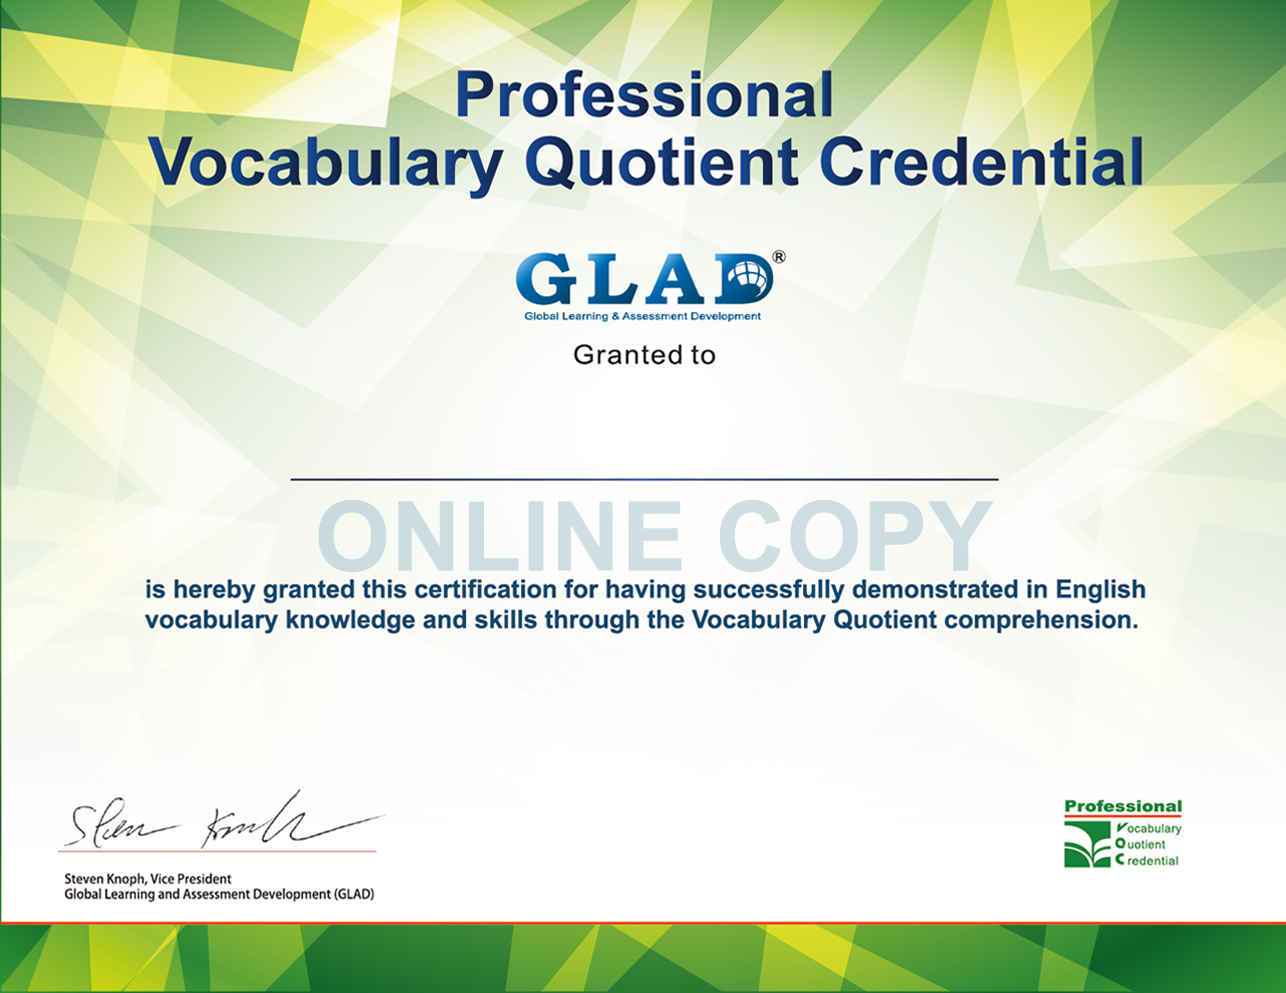
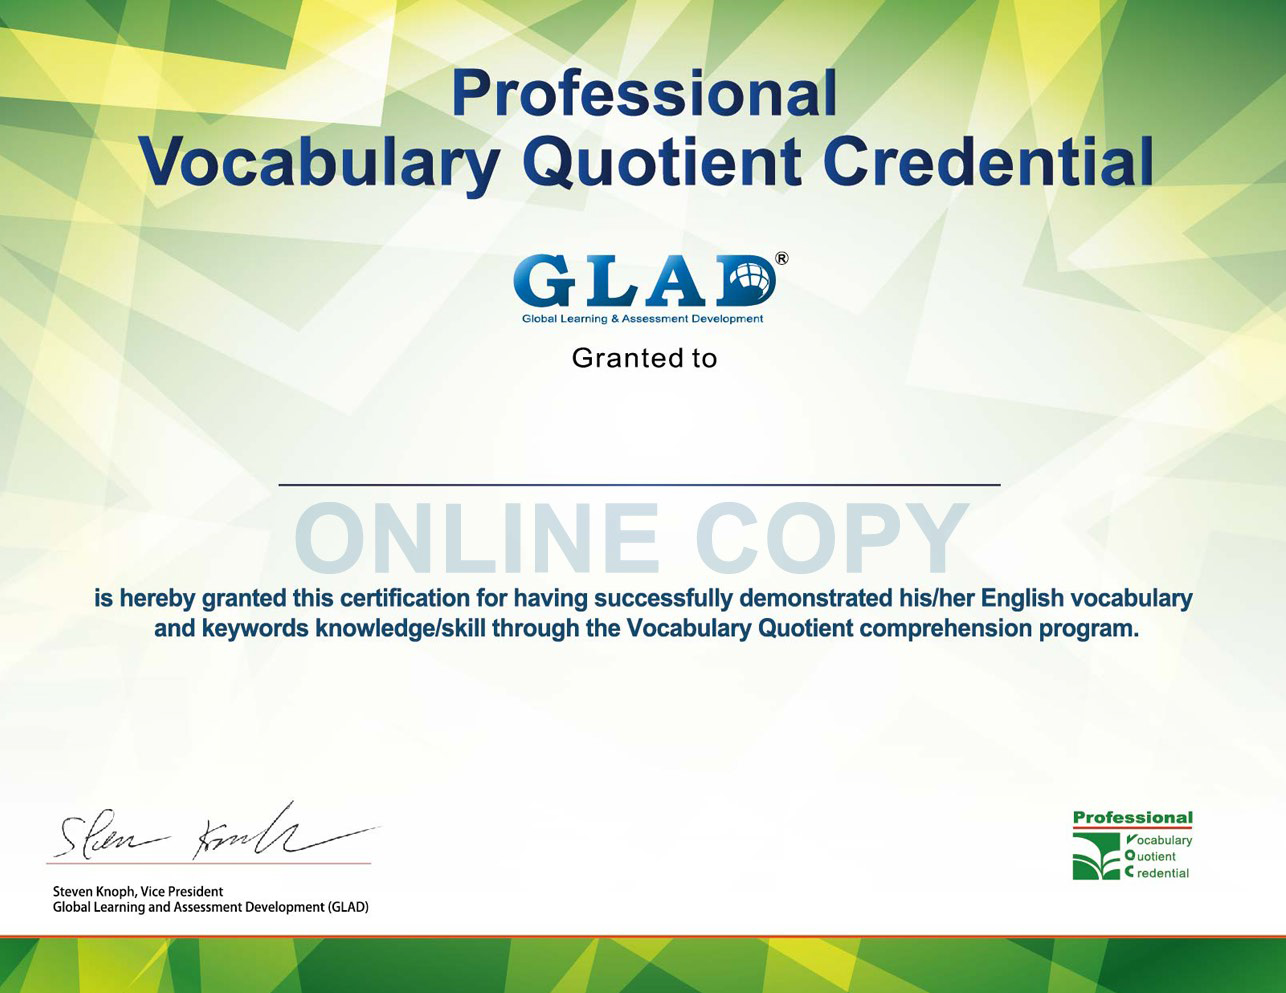
1.adjust PVQC img 2.PVQC position adjust

diff --git a/cert_pvqc.php b/cert_pvqc.php
@@ -8,7 +8,7 @@
 		<?echo $rows[13];?>
 	</p>
 		
-	<p style=" padding:80px 0px 0px 0px;" class="pvqccer">
+	<p style=" padding:90px 0px 0px 0px;" class="pvqccer">
 		English Vocabulary Quotient in <?echo $rows[3];?>
 	</p>
 	<p style=" padding:0px 0px 0px 0px;"class="pvqcctir">
@@ -17,6 +17,6 @@
 		<?echo $rows[6].$rows[7];?>
 	</p>
 	<h4 class="pvqcnum">
-		<p style=" padding:150px 0px 0px 1050px;"> <?echo $rows[8];?> </p>
+		<p style=" padding:160px 0px 0px 1050px;"> <?echo $rows[8];?> </p>
 	</h4>
 </div>
